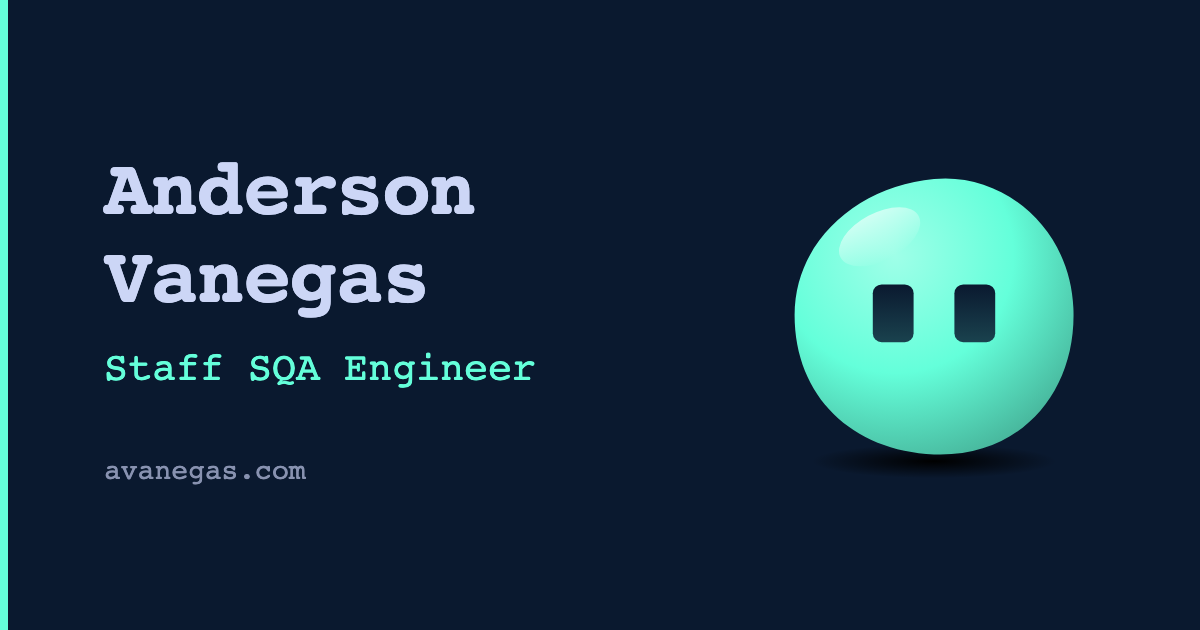
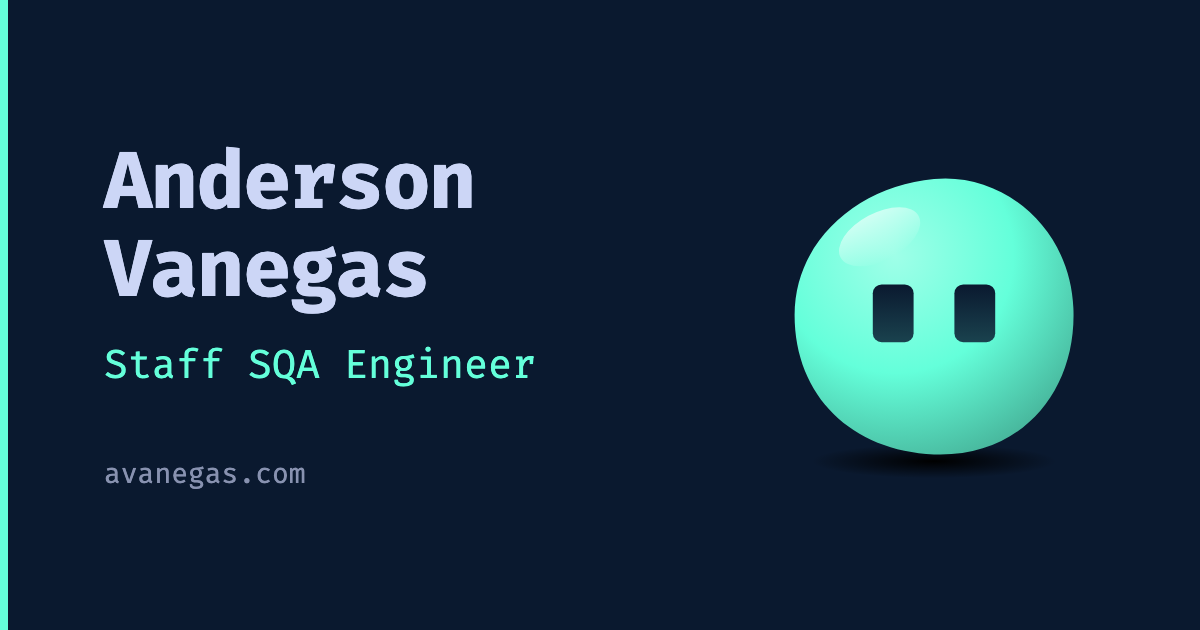
OG image: bundle Fira Code via devDependency; remove unreferenced inspiration-site images (P5-14)

Changed region(s): [[0.0617, 0.2111, 0.4008, 0.5127], [0.0925, 0.5429, 0.4625, 0.6333], [0.0925, 0.7238, 0.2467, 0.7841]]

diff --git a/scripts/og/template.html b/scripts/og/template.html
@@ -4,6 +4,19 @@
     <meta charset="utf-8" />
     <title>Anderson Vanegas</title>
     <style>
+      /* Fira Code (OFL) from the @fontsource/fira-code devDependency; not copied elsewhere. */
+      @font-face {
+        font-family: "Fira Code";
+        font-weight: 400;
+        src: url("../../node_modules/@fontsource/fira-code/files/fira-code-latin-400-normal.woff2")
+          format("woff2");
+      }
+      @font-face {
+        font-family: "Fira Code";
+        font-weight: 700;
+        src: url("../../node_modules/@fontsource/fira-code/files/fira-code-latin-700-normal.woff2")
+          format("woff2");
+      }
       /* Tokens mirror src/styles/global.css and src/styles/blob.css. */
       :root {
         --background: #0a192f;
@@ -13,7 +26,7 @@
         --blob-lit: #9fffe8; /* color-mix(--sec 62%, white) */
         --blob-shade: #42a890; /* color-mix(--sec 66%, black) */
         --eye-bottom: #1a424e; /* color-mix(--background 82%, --sec) */
-        --font: "SF Mono", "Fira Code", "Fira Mono", "Roboto Mono", monospace;
+        --font: "Fira Code", "SF Mono", "Fira Mono", "Roboto Mono", monospace;
       }
       * {
         box-sizing: border-box;
